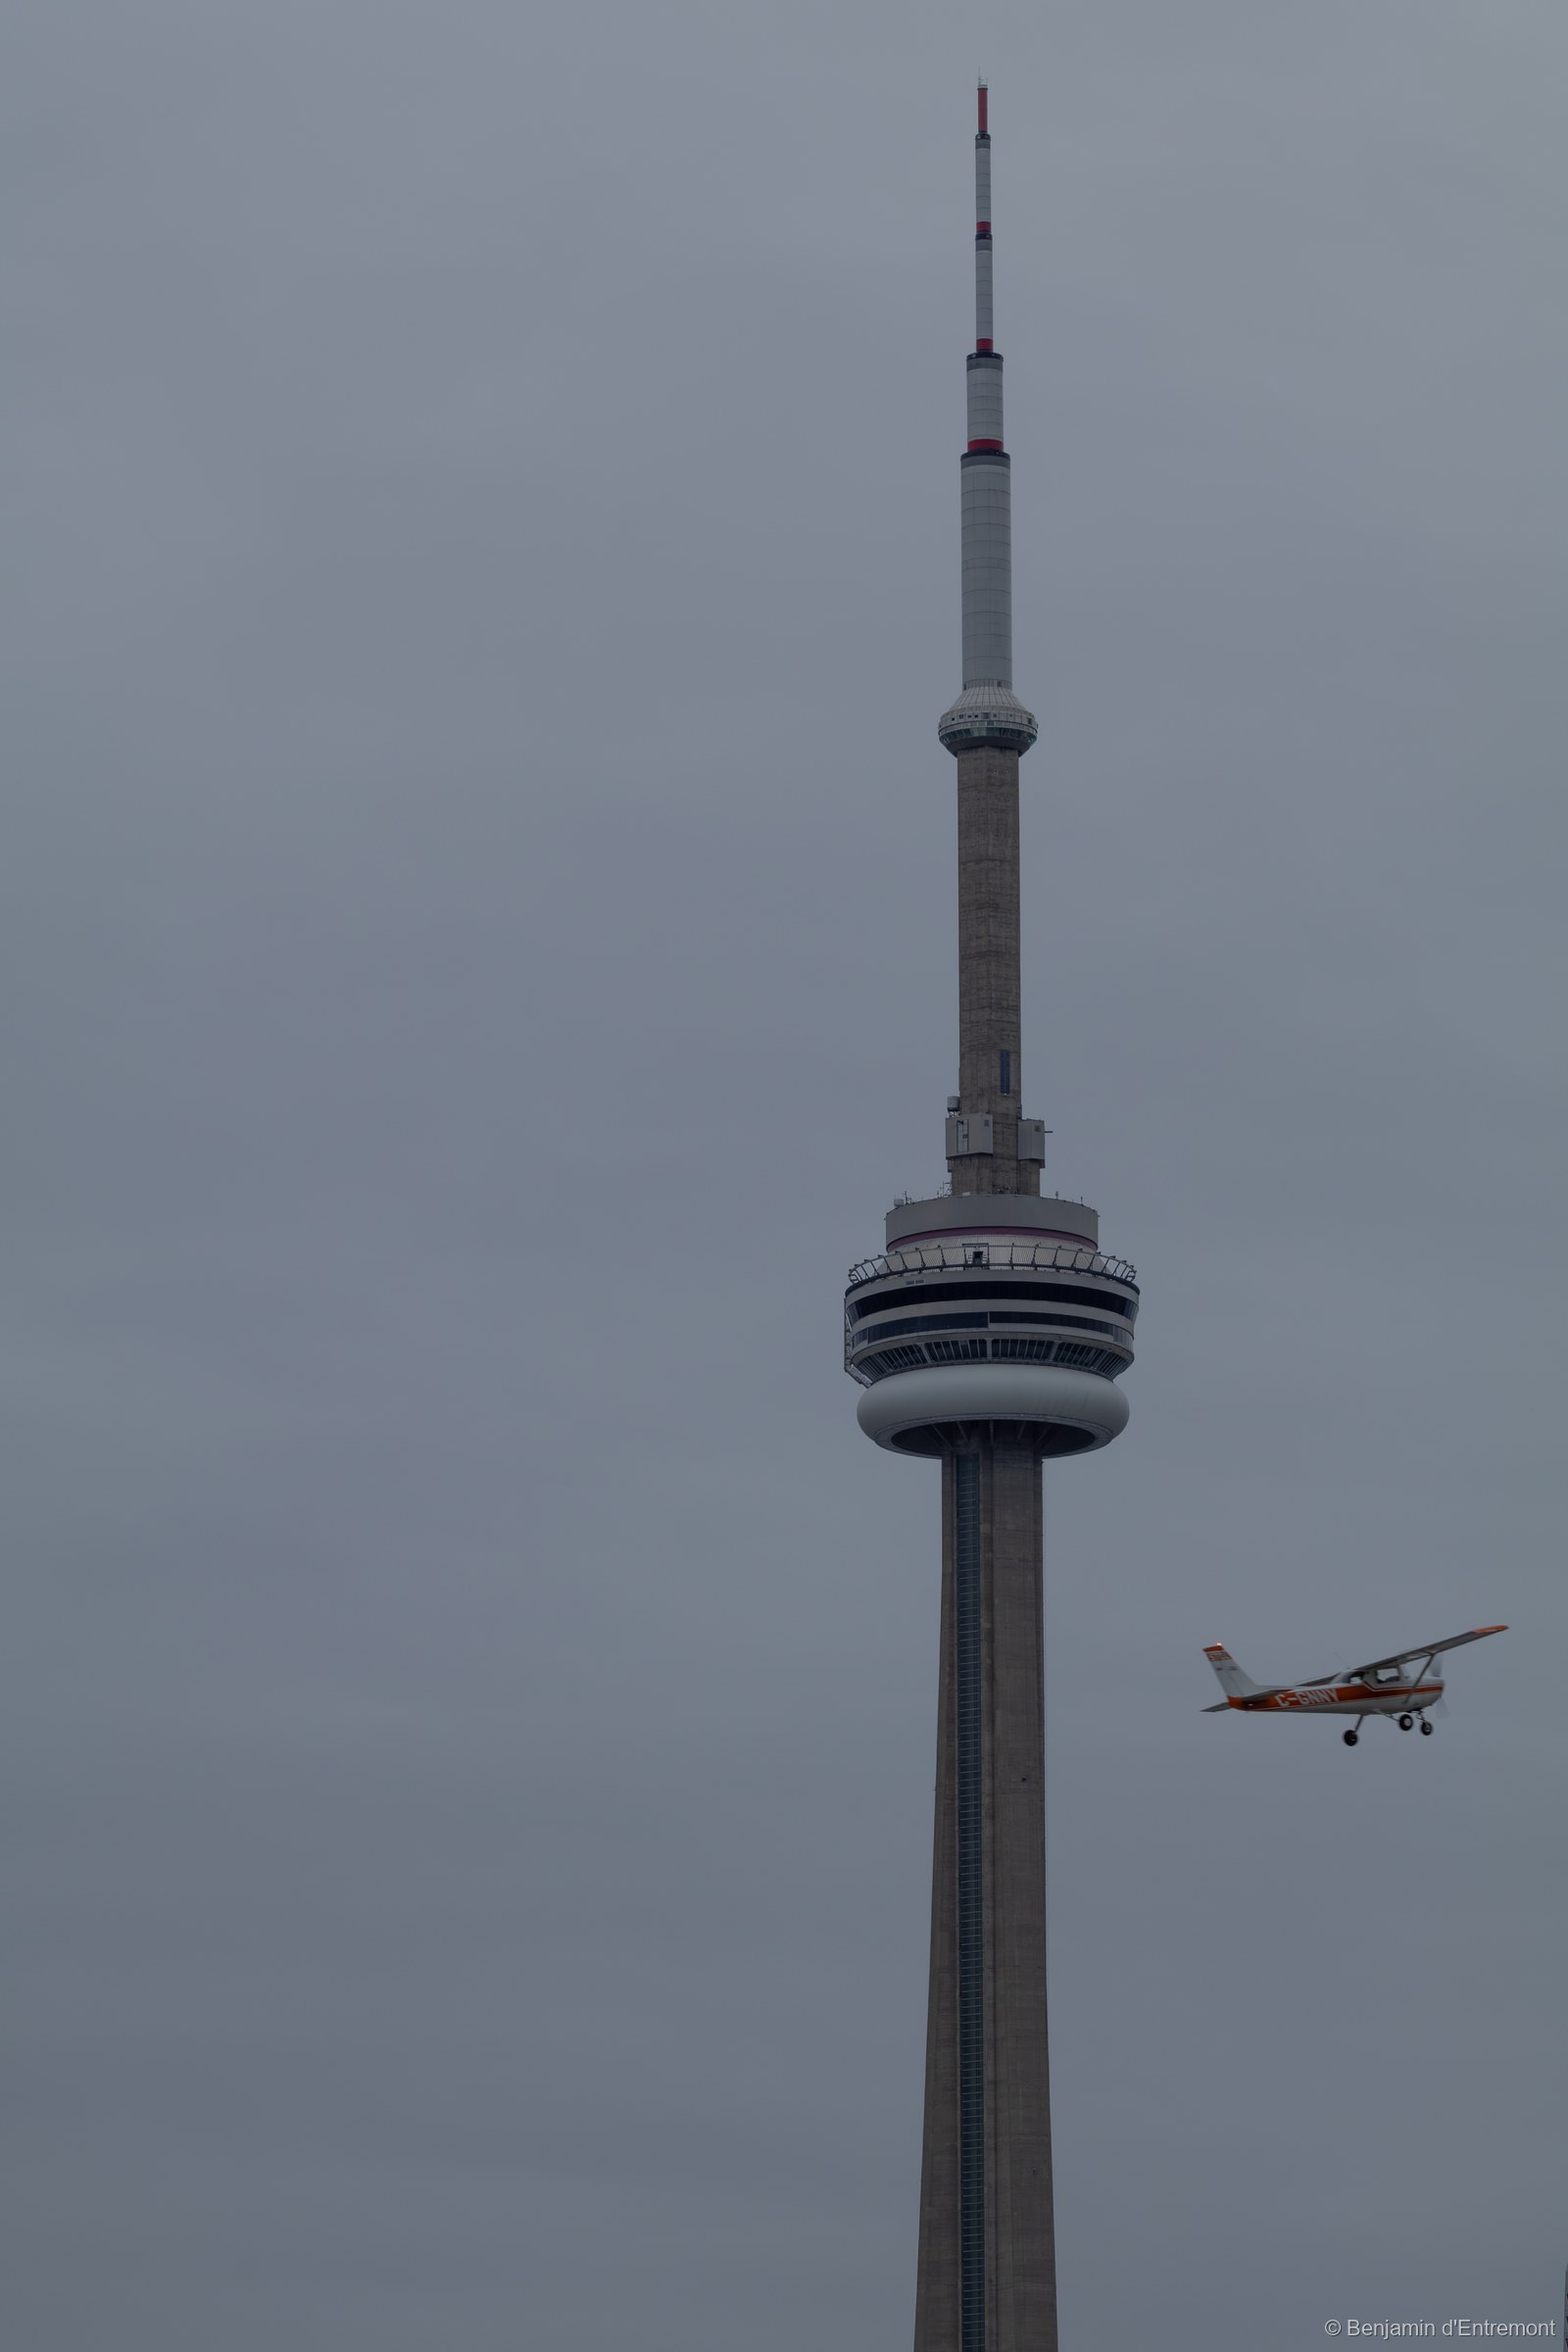
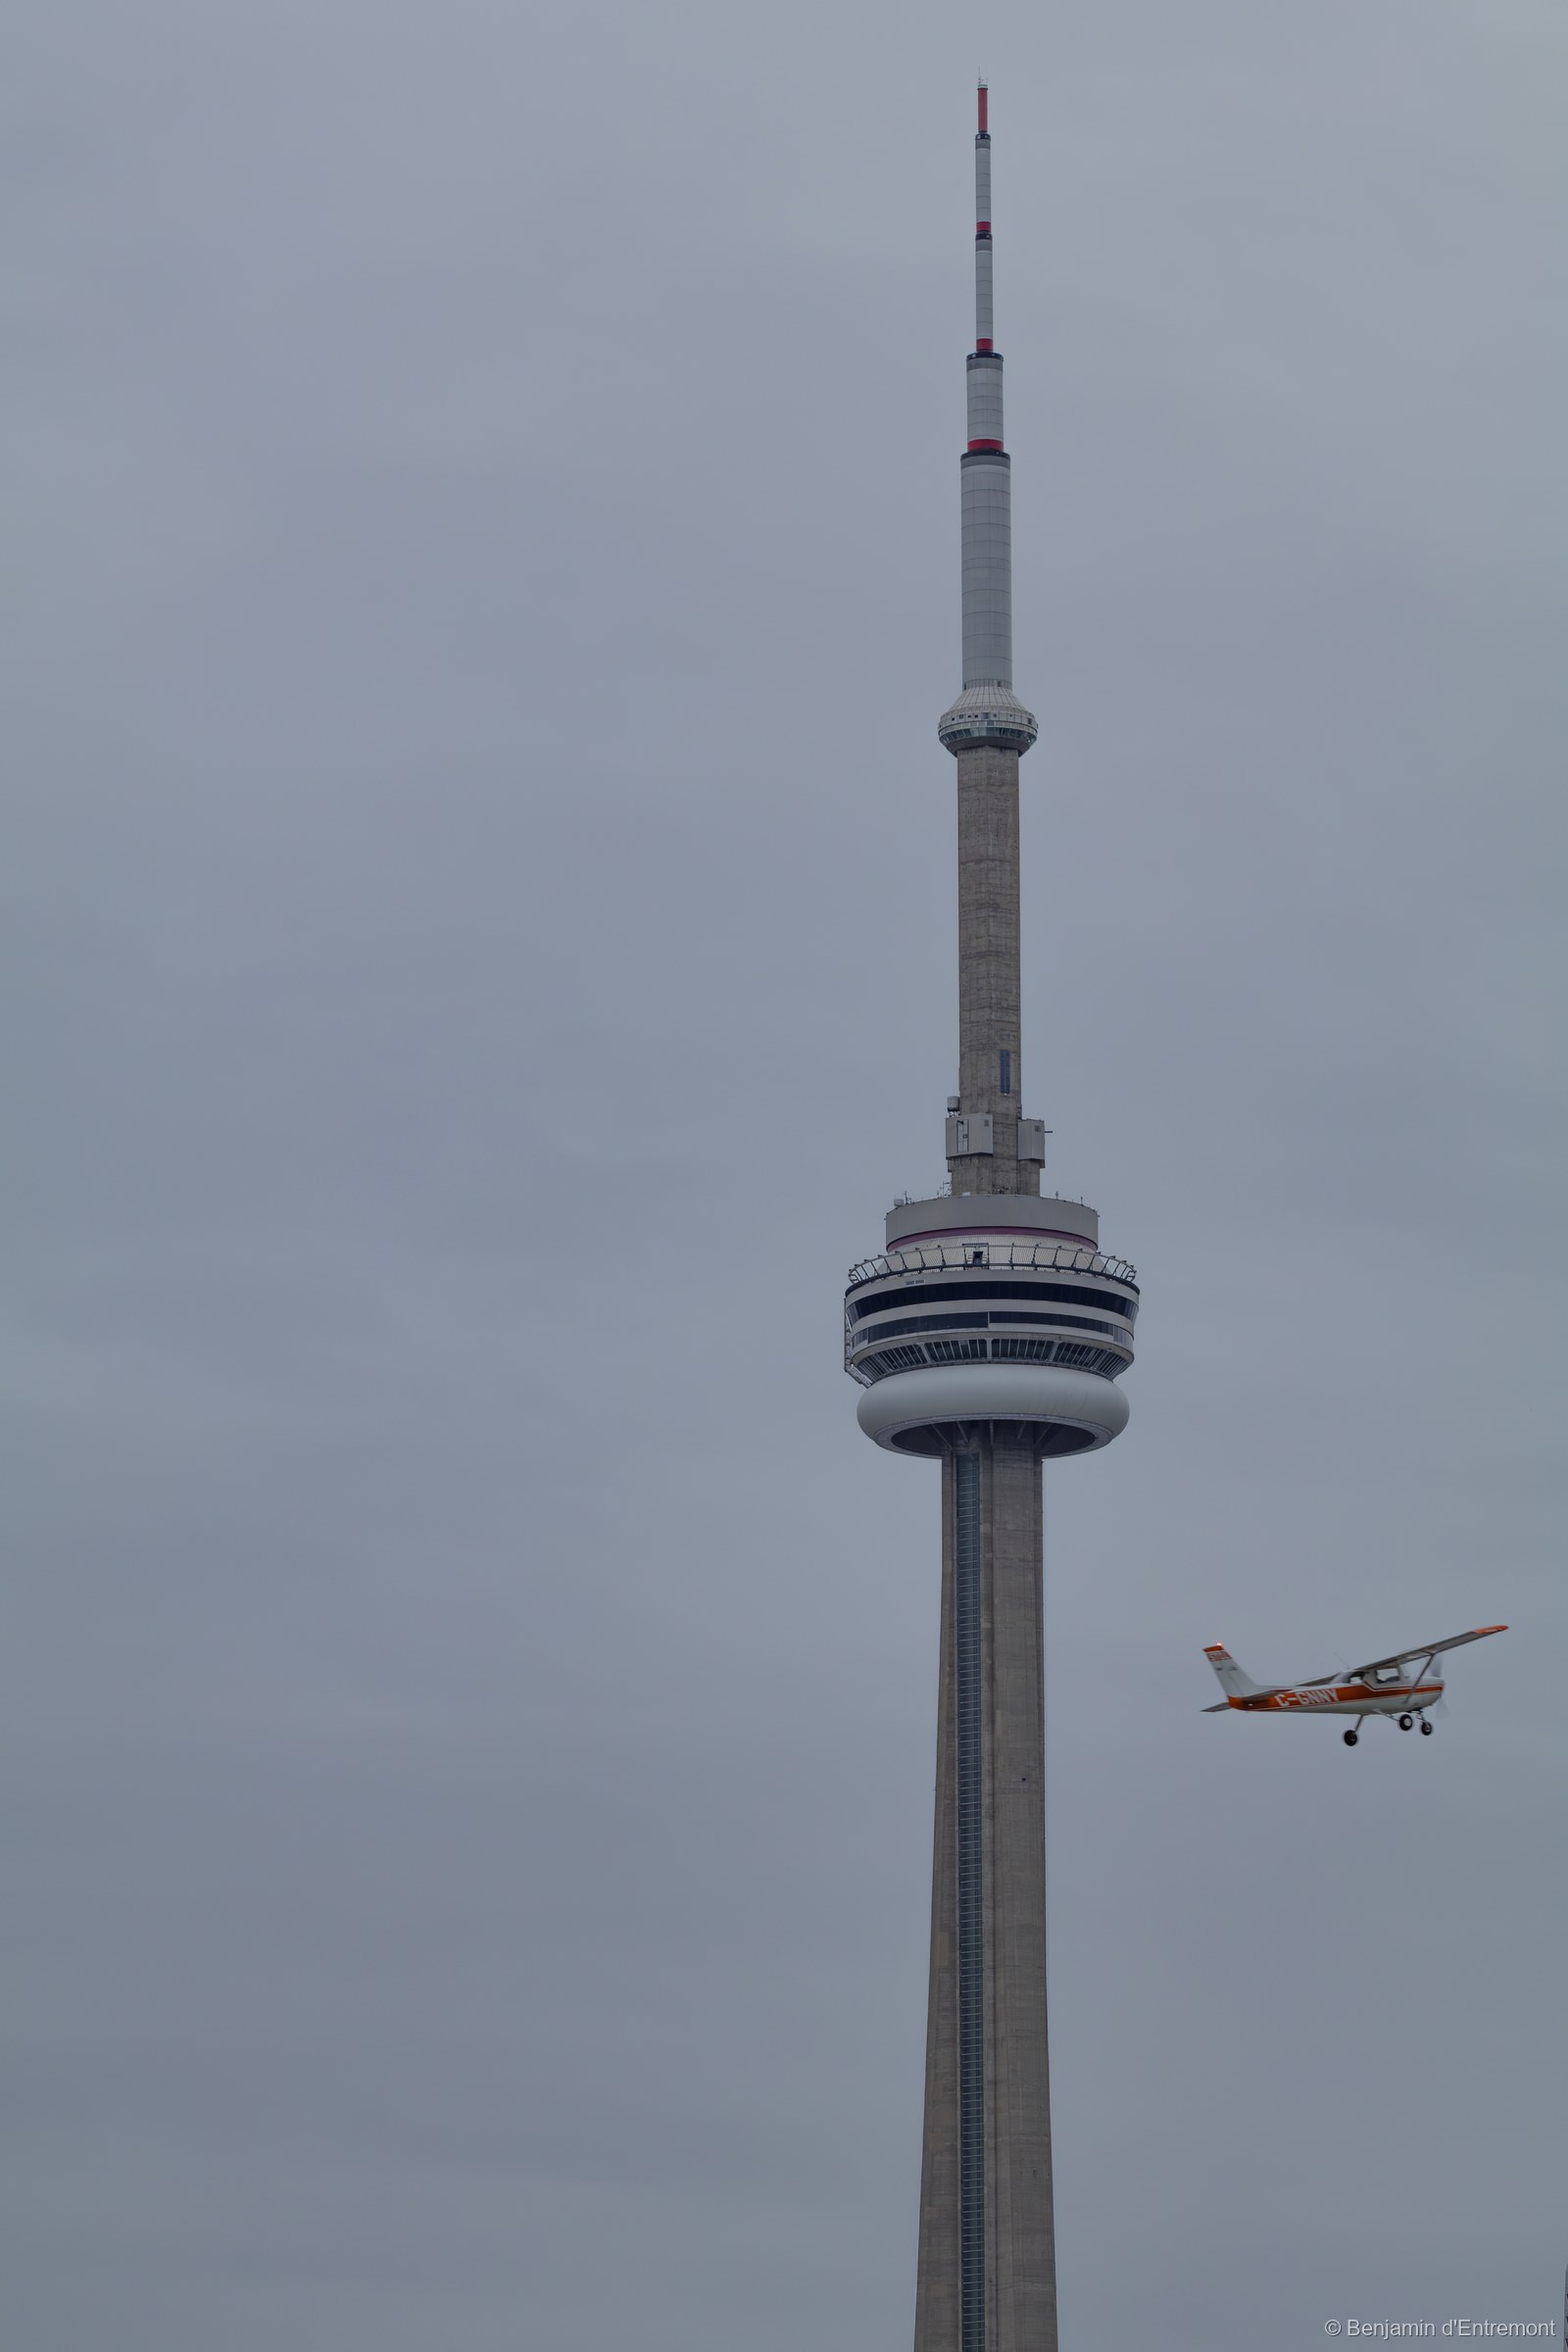
Photos: re-export updated Lightroom edits for IMG_2088, IMG_2214, IMG_4210; v1.1.62

Changed region(s): [[0.5, 0.2812, 0.75, 1.0], [0.7812, 0.6875, 0.9062, 0.75]]

diff --git a/manifest.js b/manifest.js
@@ -1,5 +1,5 @@
 window.PHOTOSITE_MANIFEST = {
-  "generated_at": "2026-06-26T01:14:49",
+  "generated_at": "2026-06-26T01:32:06",
   "hero": {
     "id": "IMG_2237",
     "type": "photo",
@@ -237,8 +237,8 @@ window.PHOTOSITE_MANIFEST = {
       "type": "photo",
       "span": 2,
       "title": "Baltimore Oriole",
-      "thumbnail": "thumbnails/IMG_2214.jpg?v=caef69f5",
-      "full": "photos/IMG_2214.jpg?v=ec08bcdc",
+      "thumbnail": "thumbnails/IMG_2214.jpg?v=2cefc945",
+      "full": "photos/IMG_2214.jpg?v=bbb78548",
       "width": 2400,
       "height": 1600,
       "exif": {
@@ -275,8 +275,8 @@ window.PHOTOSITE_MANIFEST = {
       "type": "photo",
       "span": 1,
       "title": "Cessna",
-      "thumbnail": "thumbnails/IMG_2088.jpg?v=e3ddb064",
-      "full": "photos/IMG_2088.jpg?v=14467976",
+      "thumbnail": "thumbnails/IMG_2088.jpg?v=91b0f477",
+      "full": "photos/IMG_2088.jpg?v=5c5c273d",
       "width": 1600,
       "height": 2400,
       "exif": {
@@ -907,8 +907,8 @@ window.PHOTOSITE_MANIFEST = {
       "type": "photo",
       "span": 1,
       "title": "MacKay Bridge",
-      "thumbnail": "thumbnails/IMG_4210.jpg?v=47f9cf67",
-      "full": "photos/IMG_4210.jpg?v=aa6e391c",
+      "thumbnail": "thumbnails/IMG_4210.jpg?v=3250be79",
+      "full": "photos/IMG_4210.jpg?v=eb5077d8",
       "width": 1600,
       "height": 2400,
       "exif": {

diff --git a/index.html b/index.html
@@ -16,7 +16,7 @@
   <meta property="og:description" content="Wildlife and nature photography by Benjamin d'Entremont." />
   <meta property="og:url" content="https://bendentremont.com/" />
   <meta name="twitter:card" content="summary" />
-  <link rel="stylesheet" href="styles.css?v=1.1.61" />
+  <link rel="stylesheet" href="styles.css?v=1.1.62" />
   <link rel="preconnect" href="https://fonts.googleapis.com" />
   <link rel="preconnect" href="https://fonts.gstatic.com" crossorigin />
   <link rel="stylesheet" href="https://fonts.googleapis.com/css2?family=DM+Sans:wght@400;500;600;700&display=swap" />
@@ -105,7 +105,7 @@
 
     <!-- Site-wide copyright footer. -->
     <footer class="site-footer">
-      <span class="footer-version">v1.1.61</span>
+      <span class="footer-version">v1.1.62</span>
       <small>&copy; <span id="footer-year">2026</span> Benjamin d'Entremont. All rights reserved.</small>
     </footer>
   </div>
@@ -128,7 +128,7 @@
   </div>
 
   <!-- Generated by build.py — defines window.PHOTOSITE_MANIFEST. -->
-  <script src="manifest.js?v=1.1.61"></script>
-  <script src="script.js?v=1.1.61"></script>
+  <script src="manifest.js?v=1.1.62"></script>
+  <script src="script.js?v=1.1.62"></script>
 </body>
 </html>
